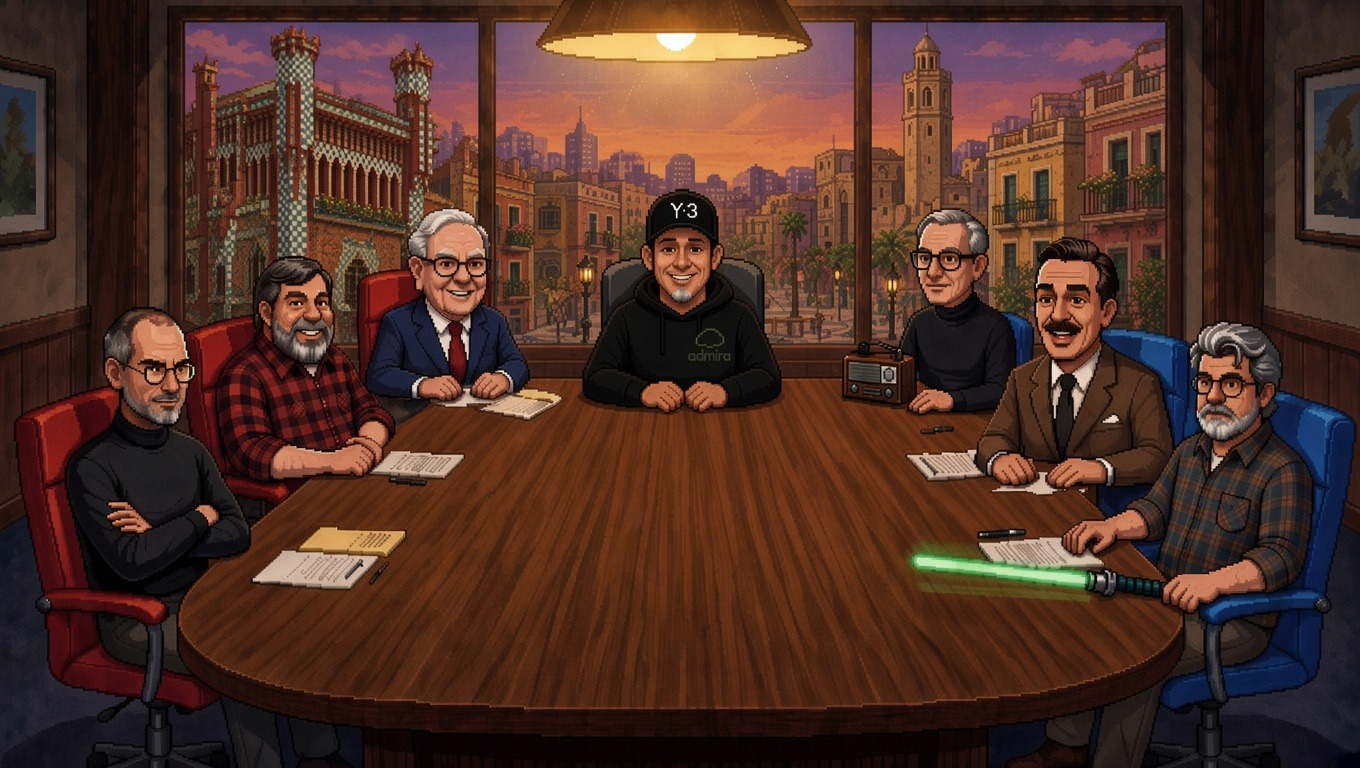
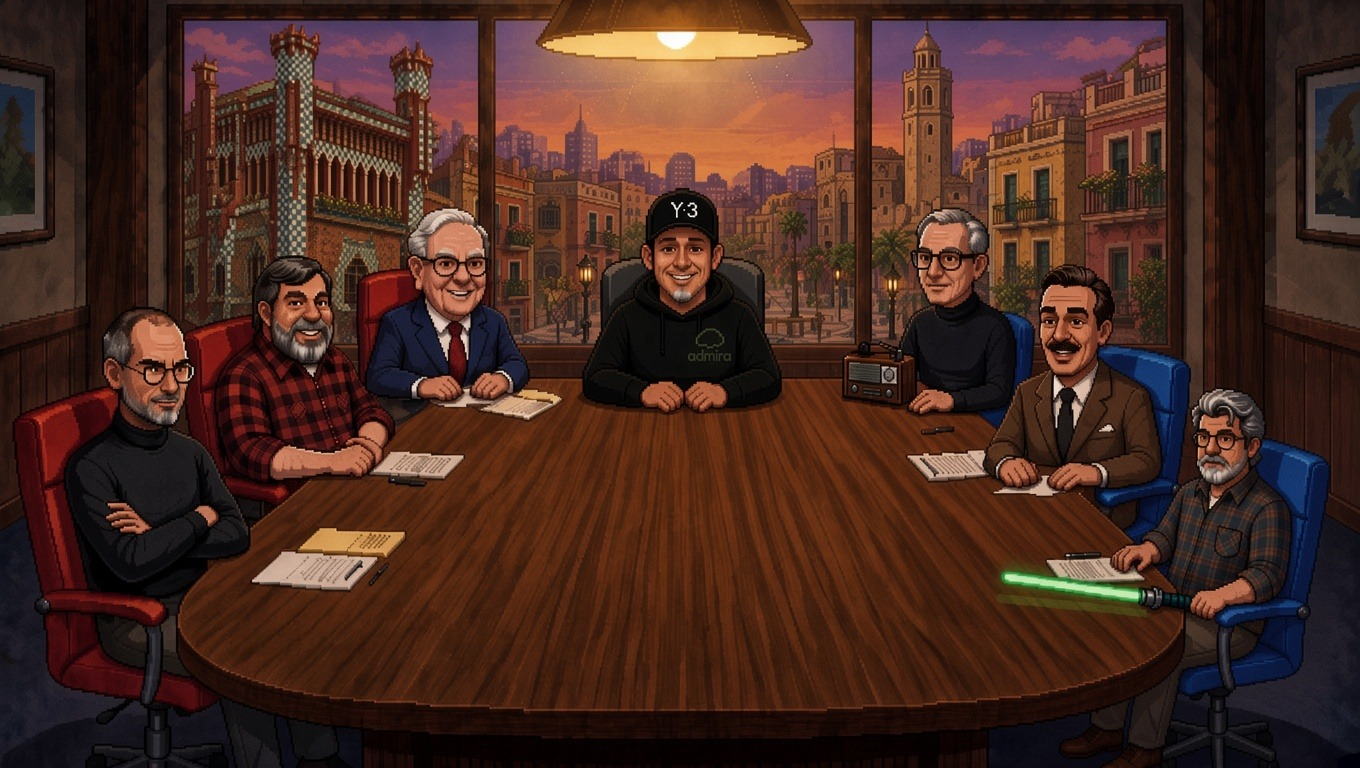
Leyendas · Disney un 10% más pequeño, a la escala de Lucas.

diff --git a/index.html b/index.html
@@ -3739,7 +3739,7 @@ body.rail-open{overflow:hidden}
 
         <div class="stage-row">
         <div class="council-image" data-generation="leyendas">
-            <img id="council-img" src="assets/council-leyendas.jpg?v=20261105-carlos7" alt="Consejo AdmiraNext" onload="this.closest('.council-image')&&this.closest('.council-image').classList.add('loaded')">
+            <img id="council-img" src="assets/council-leyendas.jpg?v=20261105-carlos8" alt="Consejo AdmiraNext" onload="this.closest('.council-image')&&this.closest('.council-image').classList.add('loaded')">
             <nav class="council-generation" aria-label="Generación del Consejo">
                 <button type="button" data-council-generation="leyendas" aria-label="Cuadro: cambiar de consejo (Leyendas ↔ Coetáneos)" aria-pressed="true" title="Cambiar de consejo · Leyendas ↔ Coetáneos" data-en-aria-label="Frame: switch council (Legends ↔ Contemporaries)" data-en-title="Switch council · Legends ↔ Contemporaries"><span data-en="★ Legends">★ Leyendas</span></button>
                 <button type="button" data-council-generation="coetaneos" aria-label="Cuadro: cambiar de consejo (Leyendas ↔ Coetáneos)" aria-pressed="false" title="Cambiar de consejo · Leyendas ↔ Coetáneos" data-en-aria-label="Frame: switch council (Legends ↔ Contemporaries)" data-en-title="Switch council · Legends ↔ Contemporaries"><span data-en="🚀 Contemporaries">🚀 Coetáneos</span></button>
@@ -4589,7 +4589,7 @@ body.rail-open{overflow:hidden}
 <script defer src="/assets/cli-ayuda.js?v=20261011-5707-selector"></script>
 <link rel="stylesheet" href="/assets/webcam.css?v=20261014-5863">
 <script defer src="/assets/webcam.js?v=20261014-5863"></script>
-<script defer src="app.flt-100529.js?v=20261105-carlos7"></script>
+<script defer src="app.flt-100529.js?v=20261105-carlos8"></script>
 <script defer src="council-preview.js?v=20260921-ultra1"></script>
 <script defer src="council-composer.js?v=20261009-r9-paste"></script>
 <script defer src="council-working.js?v=20260930-flt101302"></script>

diff --git a/app.flt-100529.js b/app.flt-100529.js
@@ -261,7 +261,7 @@
     let currentGen = "leyendas";
     let speakerTurnMap = {};
     let activeLegendPersona = "Steve Jobs";
-    const COUNCIL_IMAGE_VERSION = "20261105-carlos7";
+    const COUNCIL_IMAGE_VERSION = "20261105-carlos8";
     const LEGEND_MANDATES = {
         "Steve Jobs": {
             short: "foco producto",
